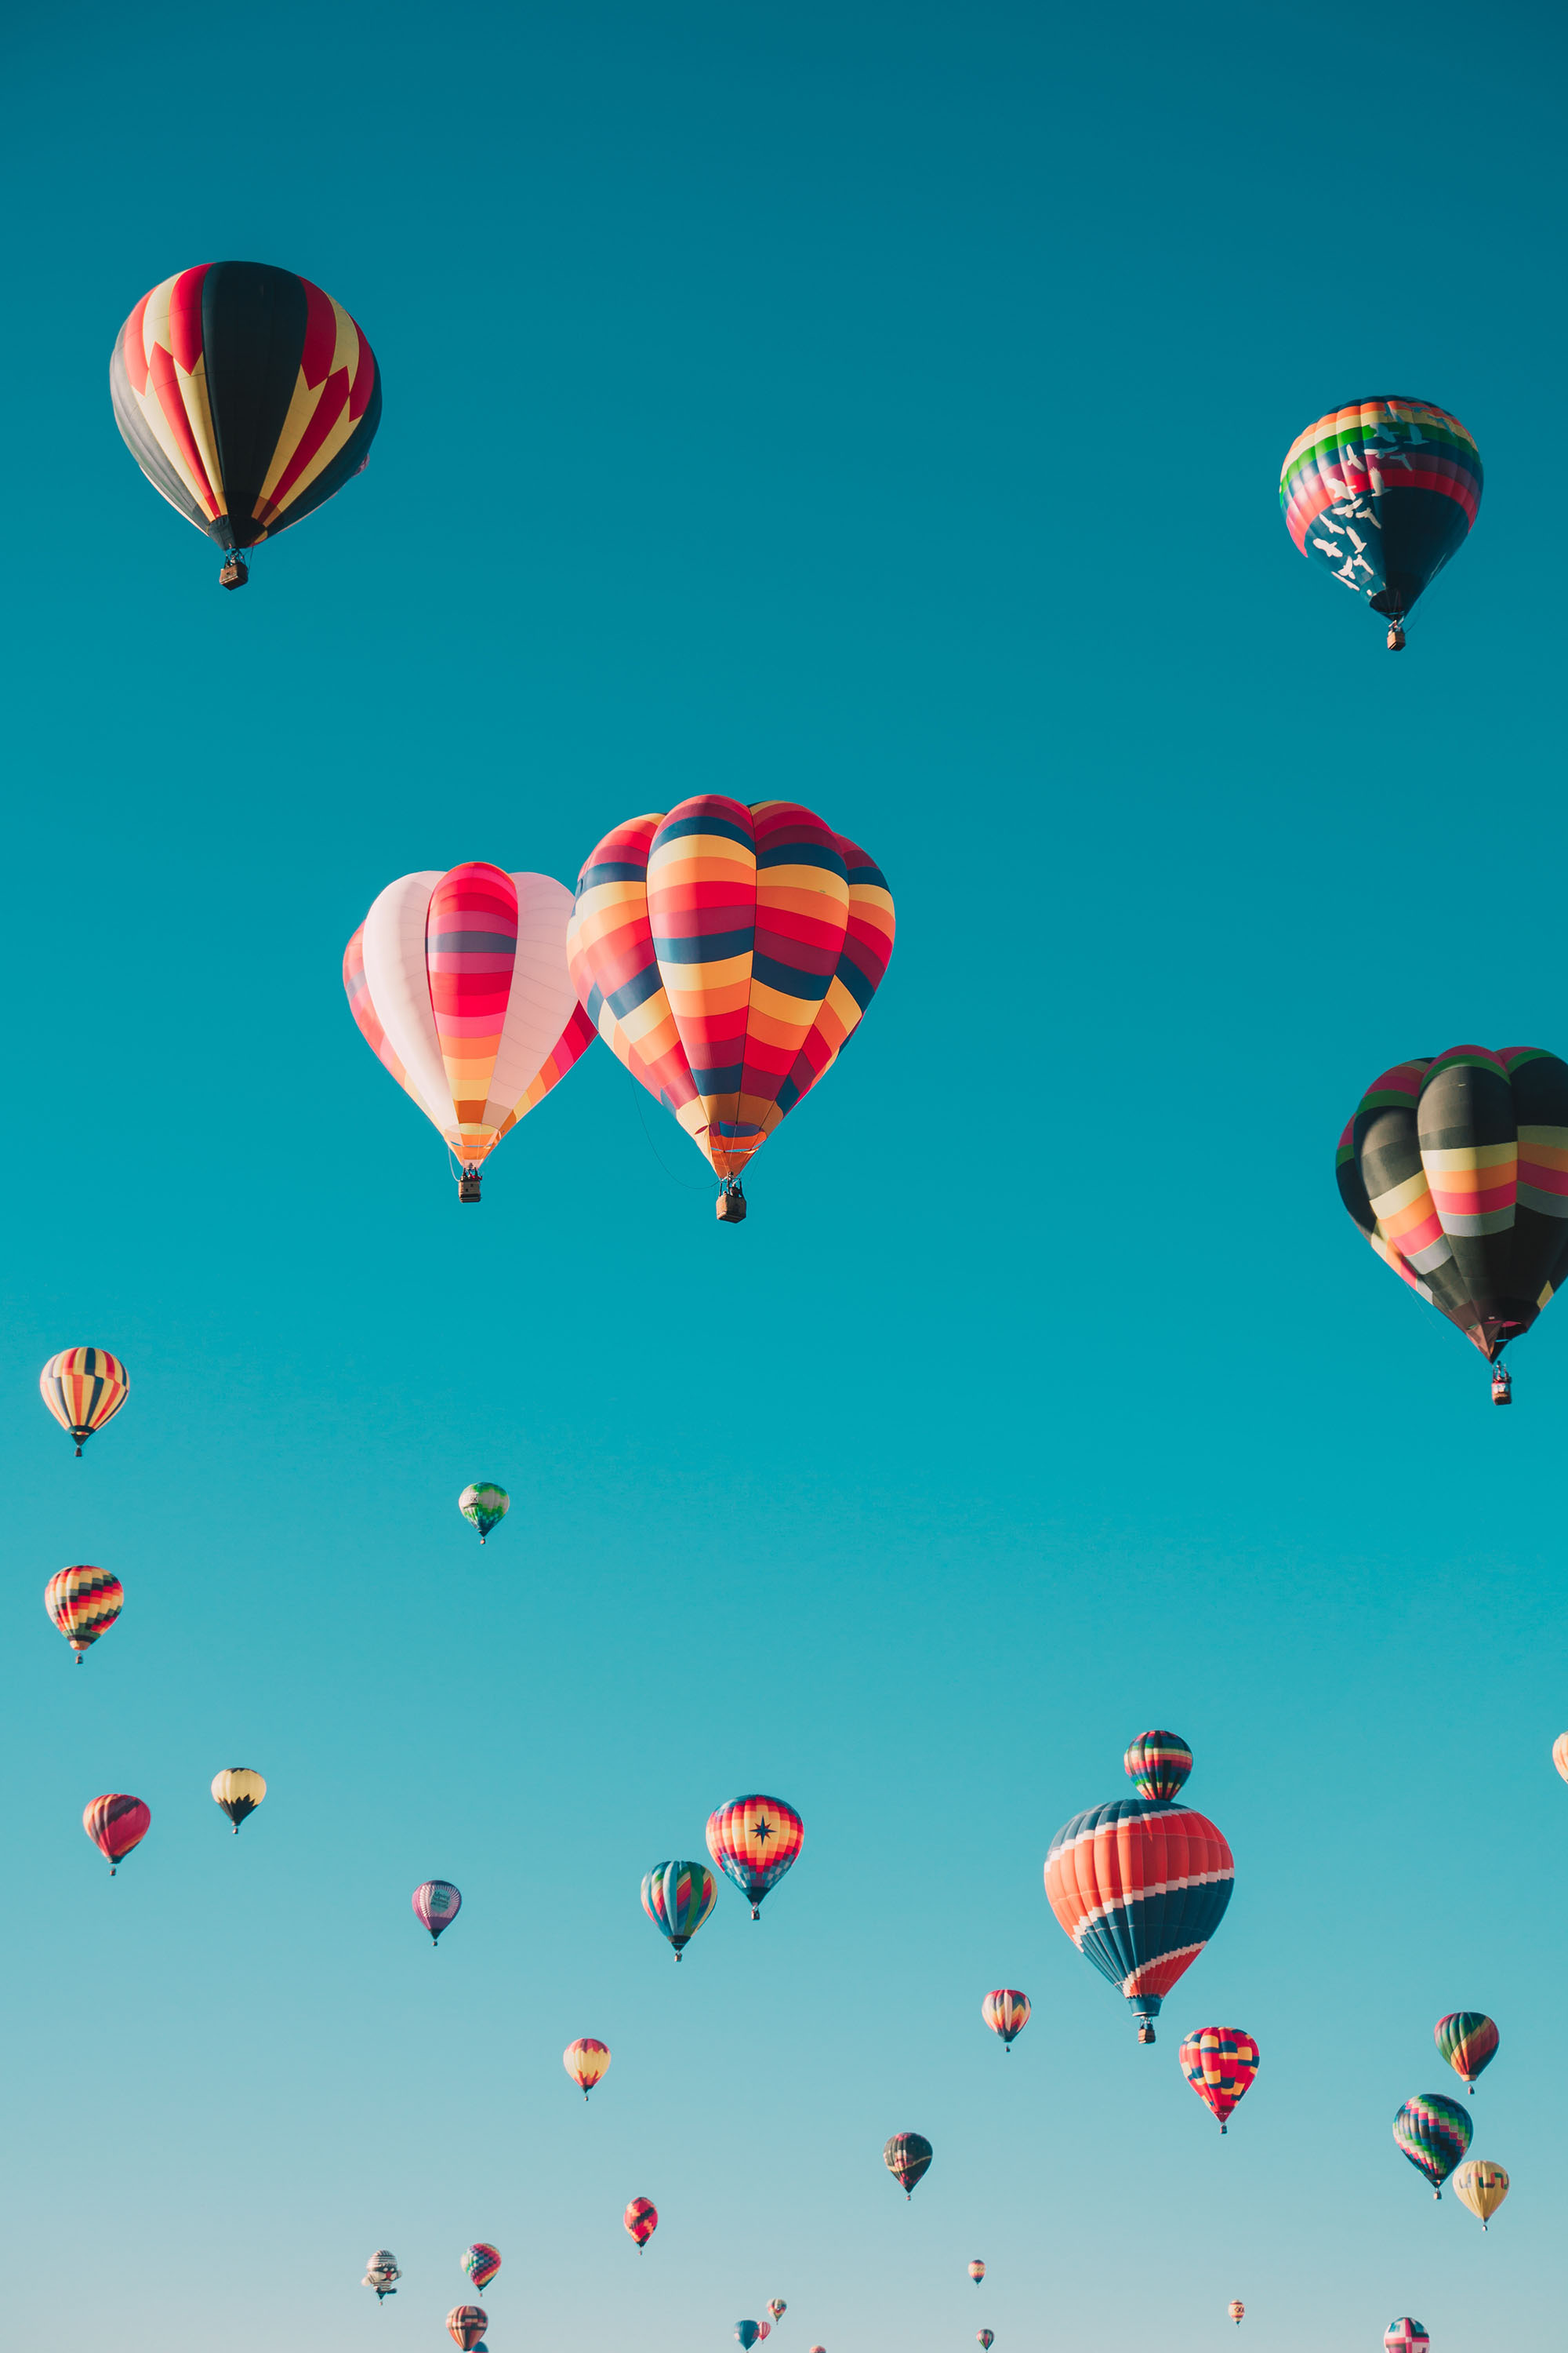
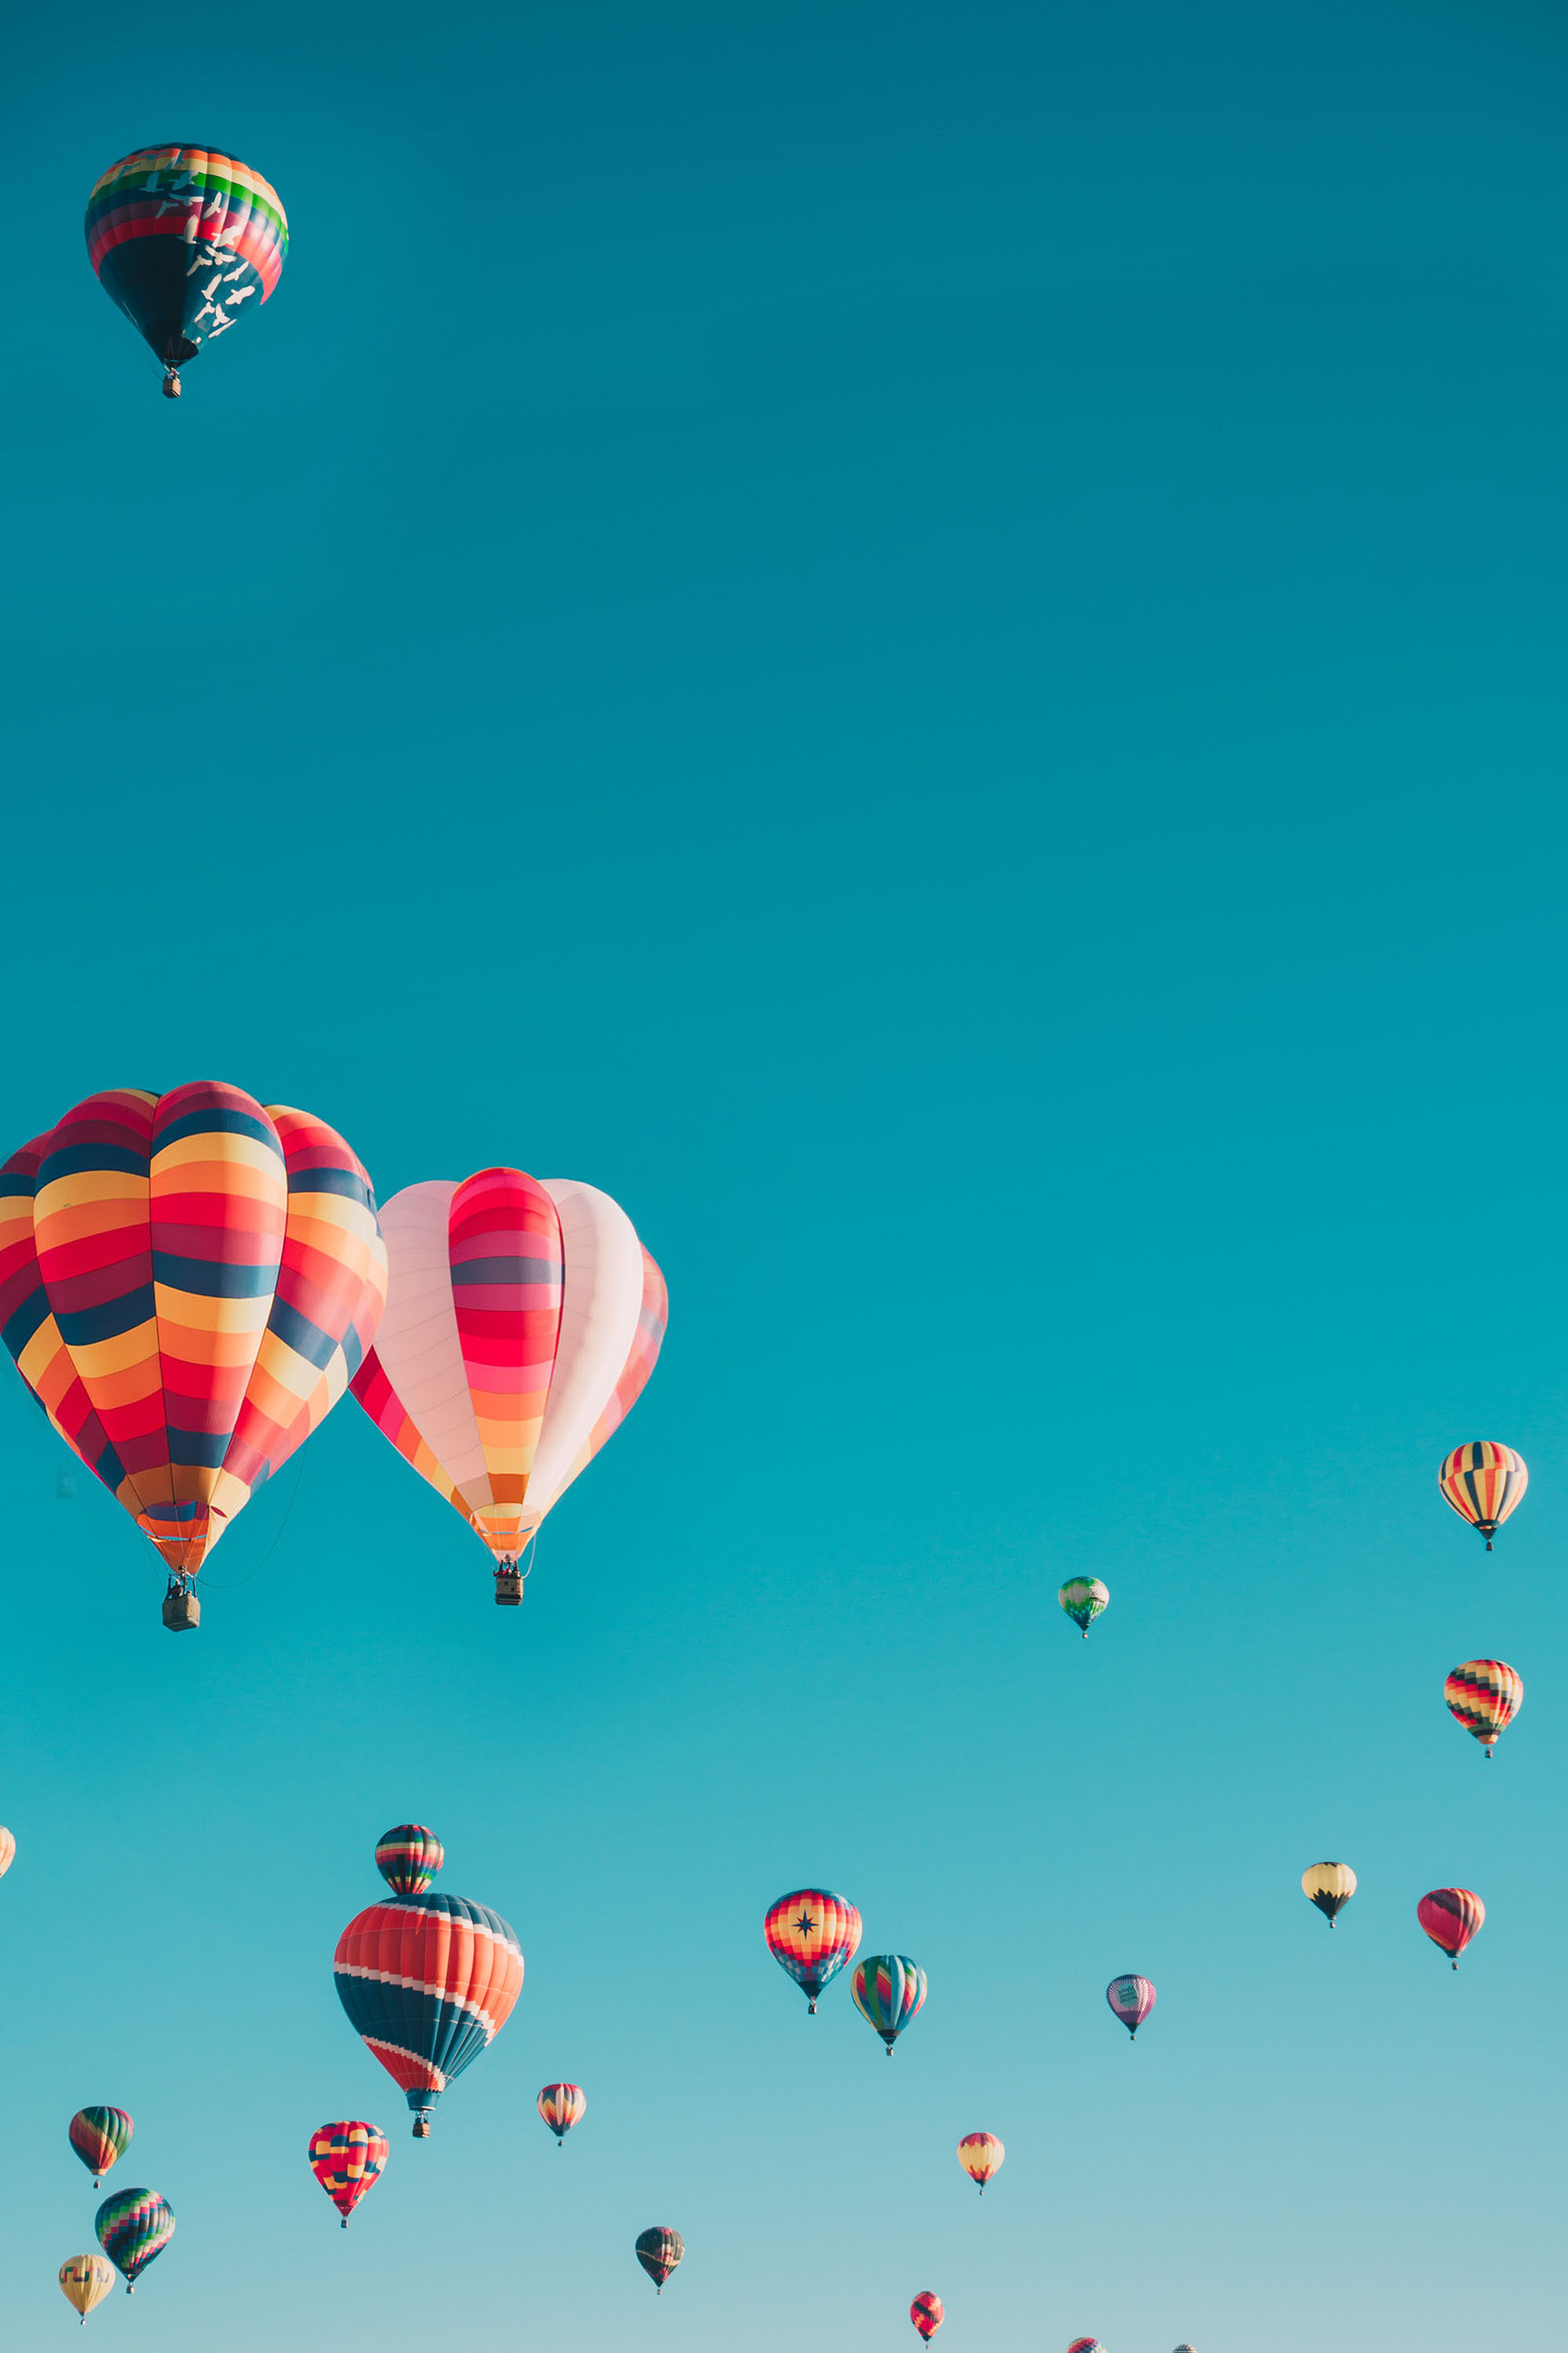
Image updates

diff --git a/public/css/style.css b/public/css/style.css
@@ -147,15 +147,15 @@ p {
 
 .knowledge {
   background-image: linear-gradient(0deg,rgba(0,0,0,0.1),rgba(0,0,0,0.1)), url(/media/knowledge.jpg);
-  background-position: 0% 35%;
+  background-position: 30% 35%;
   background-size: cover;
   background-repeat: no-repeat;
   height: 30rem;
 }
 
 .tools {
-  background-image: linear-gradient(0deg,rgba(0,0,0,0.1),rgba(0,0,0,0.1)), url(/media/tools.jpg);
-  background-position: 0% 27.5%;
+  background-image: linear-gradient(0deg,rgba(0,0,0,0.3),rgba(0,0,0,0.3)), url(/media/tools.jpg);
+  background-position: 20% 55%;
   background-size: cover;
   background-repeat: no-repeat;
   height: 30rem;
